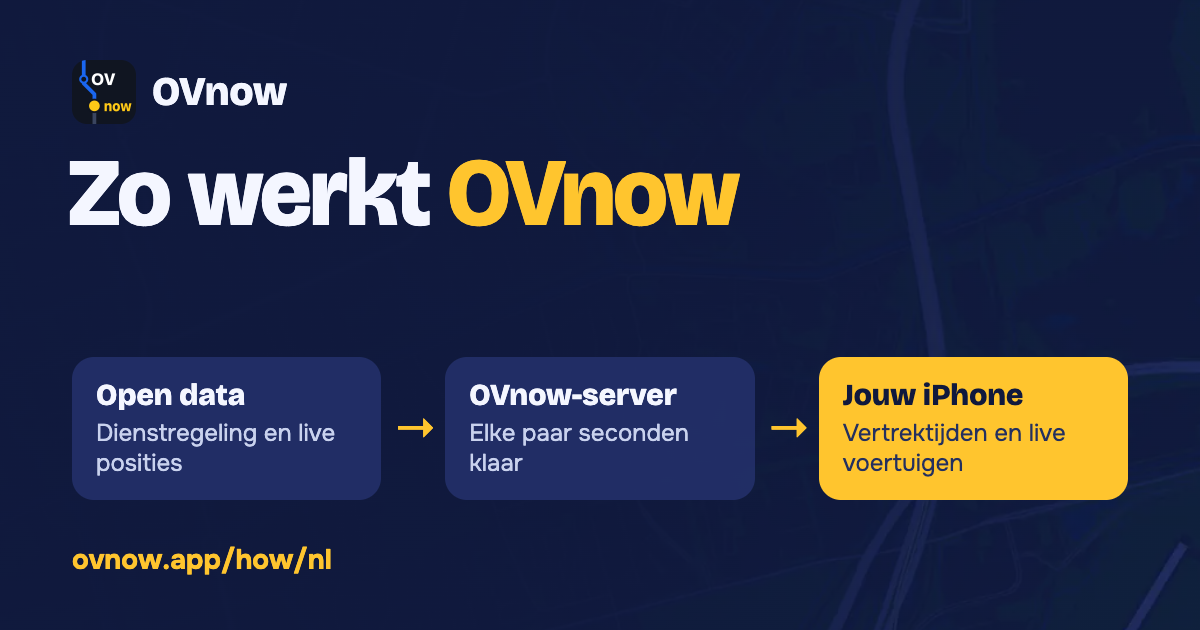
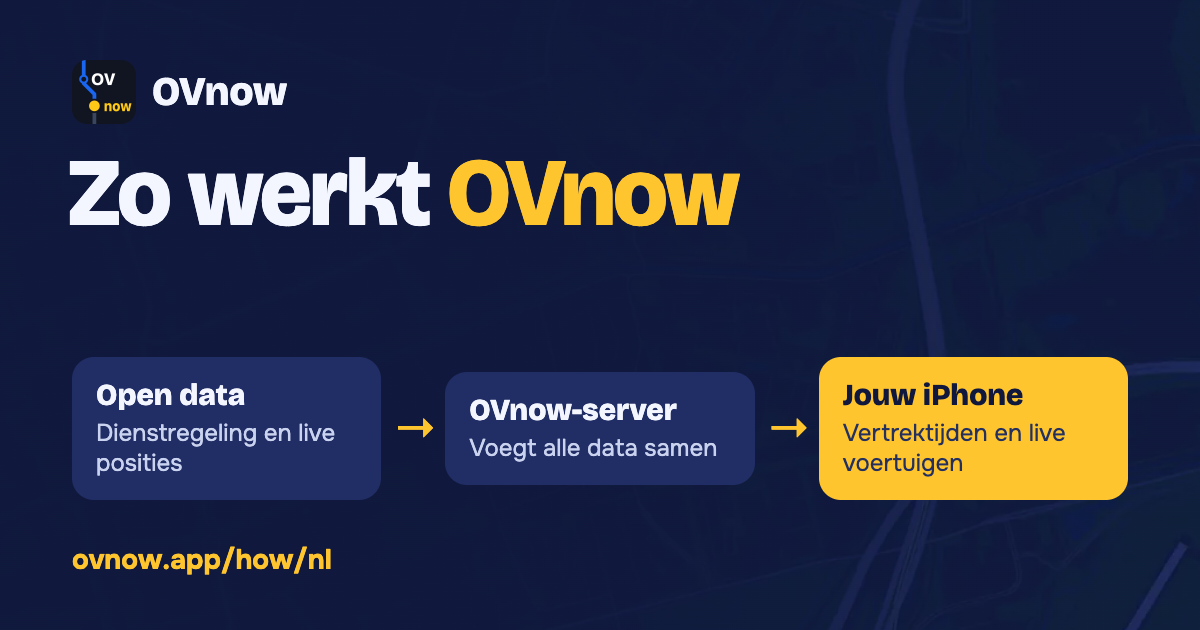
updated copy

Changed region(s): [[0.37, 0.5429, 0.6475, 0.8143]]

diff --git a/how/nl/index.html b/how/nl/index.html
@@ -12,7 +12,7 @@
 <meta property="og:url" content="https://ovnow.app/how/nl">
 <meta property="og:title" content="Zo werkt OVnow">
 <meta property="og:description" content="Waar de live data vandaan komt, de server achter de app, en wat het kost om OVnow draaiend te houden.">
-<meta property="og:image" content="https://ovnow.app/img/og-how-nl.png?v=1">
+<meta property="og:image" content="https://ovnow.app/img/og-how-nl.png?v=2">
 <meta property="og:image:width" content="1200">
 <meta property="og:image:height" content="630">
 <meta property="og:image:alt" content="Zo werkt OVnow: open data, de OVnow-server, jouw iPhone.">
@@ -20,7 +20,7 @@
 <meta name="twitter:card" content="summary_large_image">
 <meta name="twitter:title" content="Zo werkt OVnow">
 <meta name="twitter:description" content="Waar de live data vandaan komt, de server achter de app, en wat het kost om OVnow draaiend te houden.">
-<meta name="twitter:image" content="https://ovnow.app/img/og-how-nl.png?v=1">
+<meta name="twitter:image" content="https://ovnow.app/img/og-how-nl.png?v=2">
 
 <link rel="icon" href="/img/icon-180.png?v=2">
 <link rel="apple-touch-icon" href="/img/icon-180.png?v=2">
@@ -90,7 +90,7 @@
       <h2>Van dienstregeling naar je scherm</h2>
       <div class="flow" role="list">
         <div role="listitem"><b>Open OV-data</b>Dienstregeling, vertragingen en posities van voertuigen, van NDOV Loket en OVapi.</div><span aria-hidden="true">→</span>
-        <div role="listitem"><b>De OVnow-server</b>Haalt alles elke paar seconden op en zet het klaar voor de app.</div><span aria-hidden="true">→</span>
+        <div role="listitem"><b>De OVnow-server</b>Voegt alle data samen. Zo zie je in één keer waar je rit is en wanneer hij gaat.</div><span aria-hidden="true">→</span>
         <div role="listitem" class="you"><b>Jouw iPhone</b>Vertrektijden, live voertuigen op de kaart en je rit op je toegangsscherm.</div>
       </div>
       <ul>
@@ -129,7 +129,7 @@
       <h2>From timetable to your screen</h2>
       <div class="flow" role="list">
         <div role="listitem"><b>Open transit data</b>Timetables, delays and vehicle positions, from NDOV Loket and OVapi.</div><span aria-hidden="true">→</span>
-        <div role="listitem"><b>The OVnow server</b>Fetches it all every few seconds and gets it ready for the app.</div><span aria-hidden="true">→</span>
+        <div role="listitem"><b>The OVnow server</b>Puts all the data together, so you see at a glance where your ride is and when it leaves.</div><span aria-hidden="true">→</span>
         <div role="listitem" class="you"><b>Your iPhone</b>Departures, live vehicles on the map and your ride on your Lock Screen.</div>
       </div>
       <ul>

diff --git a/how/index.html b/how/index.html
@@ -12,7 +12,7 @@
 <meta property="og:url" content="https://ovnow.app/how">
 <meta property="og:title" content="How OVnow works">
 <meta property="og:description" content="Where the live data comes from, the server behind the app, and what it costs to keep OVnow running.">
-<meta property="og:image" content="https://ovnow.app/img/og-how-en.png?v=1">
+<meta property="og:image" content="https://ovnow.app/img/og-how-en.png?v=2">
 <meta property="og:image:width" content="1200">
 <meta property="og:image:height" content="630">
 <meta property="og:image:alt" content="How OVnow works: open data, the OVnow server, your iPhone.">
@@ -20,7 +20,7 @@
 <meta name="twitter:card" content="summary_large_image">
 <meta name="twitter:title" content="How OVnow works">
 <meta name="twitter:description" content="Where the live data comes from, the server behind the app, and what it costs to keep OVnow running.">
-<meta name="twitter:image" content="https://ovnow.app/img/og-how-en.png?v=1">
+<meta name="twitter:image" content="https://ovnow.app/img/og-how-en.png?v=2">
 
 <link rel="icon" href="/img/icon-180.png?v=2">
 <link rel="apple-touch-icon" href="/img/icon-180.png?v=2">
@@ -90,7 +90,7 @@
       <h2>Van dienstregeling naar je scherm</h2>
       <div class="flow" role="list">
         <div role="listitem"><b>Open OV-data</b>Dienstregeling, vertragingen en posities van voertuigen, van NDOV Loket en OVapi.</div><span aria-hidden="true">→</span>
-        <div role="listitem"><b>De OVnow-server</b>Haalt alles elke paar seconden op en zet het klaar voor de app.</div><span aria-hidden="true">→</span>
+        <div role="listitem"><b>De OVnow-server</b>Voegt alle data samen. Zo zie je in één keer waar je rit is en wanneer hij gaat.</div><span aria-hidden="true">→</span>
         <div role="listitem" class="you"><b>Jouw iPhone</b>Vertrektijden, live voertuigen op de kaart en je rit op je toegangsscherm.</div>
       </div>
       <ul>
@@ -129,7 +129,7 @@
       <h2>From timetable to your screen</h2>
       <div class="flow" role="list">
         <div role="listitem"><b>Open transit data</b>Timetables, delays and vehicle positions, from NDOV Loket and OVapi.</div><span aria-hidden="true">→</span>
-        <div role="listitem"><b>The OVnow server</b>Fetches it all every few seconds and gets it ready for the app.</div><span aria-hidden="true">→</span>
+        <div role="listitem"><b>The OVnow server</b>Puts all the data together, so you see at a glance where your ride is and when it leaves.</div><span aria-hidden="true">→</span>
         <div role="listitem" class="you"><b>Your iPhone</b>Departures, live vehicles on the map and your ride on your Lock Screen.</div>
       </div>
       <ul>
